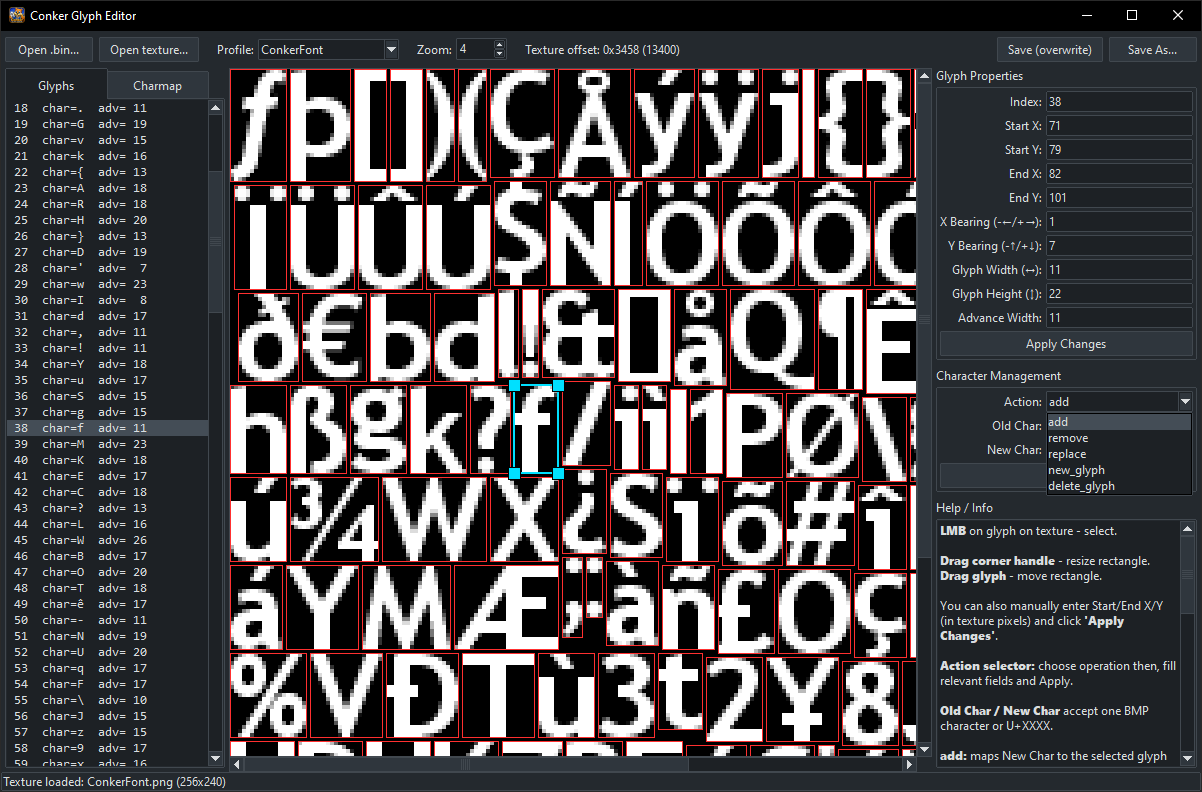
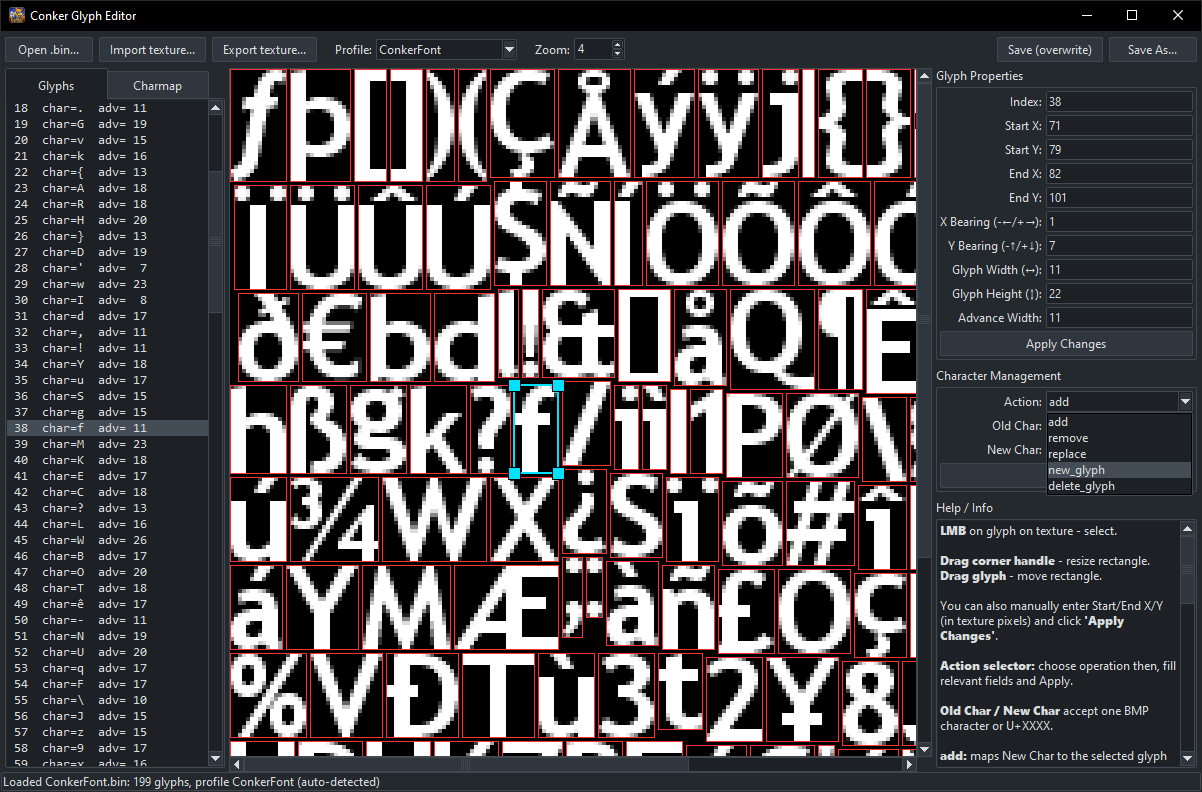
v1.0 Beta

diff --git a/conker_glyph_editor.py b/conker_glyph_editor.py
@@ -645,8 +645,7 @@ class GlyphEditorApp:
         toolbar.pack(side=tk.TOP, fill=tk.X, padx=4, pady=(6, 2))
 
         ttk.Button(toolbar, text="Open .bin...", command=self.open_bin, padding=(8, 2)).pack(side=tk.LEFT, padx=(0, 3))
-        ttk.Button(toolbar, text="Import texture...", command=self.import_texture, padding=(8, 2)).pack(side=tk.LEFT, padx=(3, 0))
-
+        ttk.Button(toolbar, text="Import texture...", command=self.import_texture, padding=(8, 2)).pack(side=tk.LEFT, padx=(3, 3))
         ttk.Button(toolbar, text="Export texture...", command=self.export_texture, padding=(8, 2)).pack(side=tk.LEFT, padx=(3, 0))
 
         ttk.Label(toolbar, text="Profile:").pack(side=tk.LEFT, padx=(16, 2))
